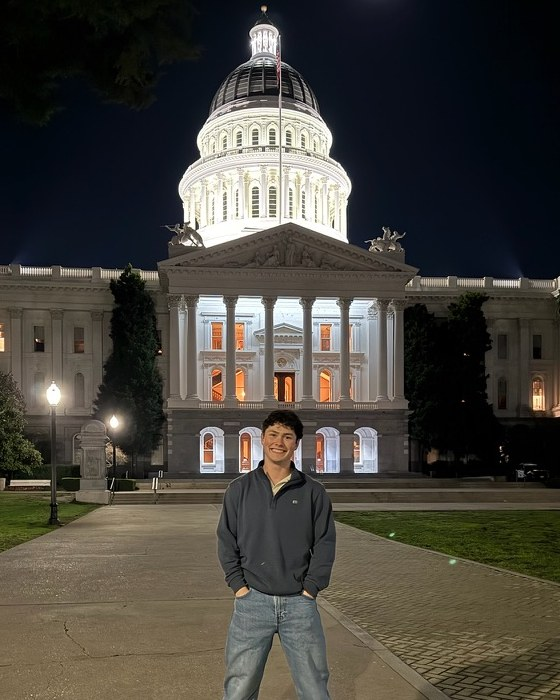
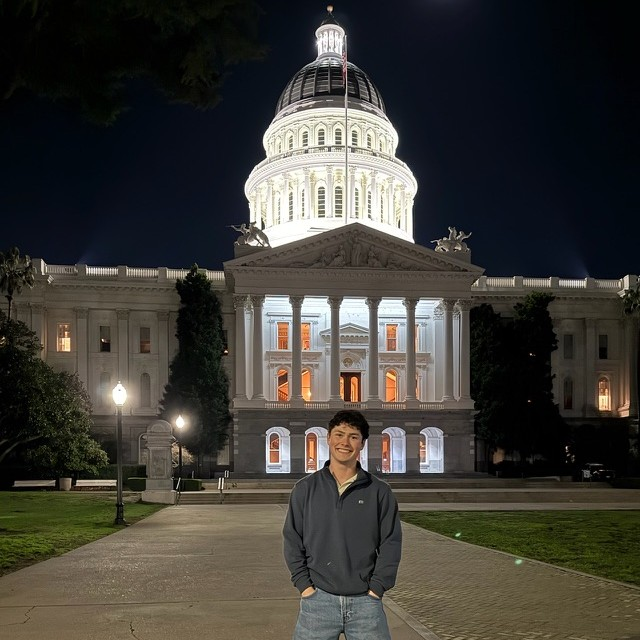
About page: full-width portrait photo with caption
Claude-Session: https://claude.ai/code/session_01RMTSKw5uyPK9YqixEShuWc

diff --git a/src/css/style.css b/src/css/style.css
@@ -191,13 +191,15 @@ a:focus-visible, button:focus-visible, input:focus-visible { outline: 3px solid 
 }
 
 /* ---------- About page intro ---------- */
-.about-intro { padding-top: 28px; }
-.about-card { display: flex; flex-wrap: wrap; gap: 28px; align-items: center; padding: 24px 0; border-top: 1px solid var(--rule); border-bottom: 1px solid var(--rule); }
-.about-photo { width: 240px; height: auto; aspect-ratio: 4 / 5; border-radius: 6px; object-fit: cover; border: 4px solid var(--gold); flex: none; }
-.about-who { display: flex; flex-direction: column; gap: 8px; min-width: 0; flex: 1 1 260px; }
-.about-who h2 { margin: 0; font-size: 30px; font-weight: 800; letter-spacing: -0.01em; }
+.about-figure { margin: 28px auto 0; }
+.about-figure img { width: 100%; aspect-ratio: 1 / 1; object-fit: cover; border-radius: 4px; }
+.about-figure figcaption { margin-top: 10px; font-size: 13px; color: var(--subtle); }
+.about-intro { padding-top: 20px; }
+.about-card { display: flex; flex-wrap: wrap; gap: 16px 24px; align-items: center; justify-content: space-between; padding-bottom: 20px; border-bottom: 1px solid var(--rule); }
+.about-who { display: flex; flex-direction: column; gap: 4px; min-width: 0; }
+.about-who h2 { margin: 0; font-size: 28px; font-weight: 800; letter-spacing: -0.01em; }
 .about-role { margin: 0; font-family: var(--serif); font-style: italic; font-size: 18px; color: var(--muted); }
-.about-links { list-style: none; margin: 6px 0 0; padding: 0; display: flex; flex-wrap: wrap; gap: 10px; }
-.about-btn { display: inline-flex; align-items: center; gap: 8px; min-height: 44px; padding: 0 16px; border: 1px solid var(--ink); border-radius: 4px; font-weight: 700; font-size: 15px; overflow-wrap: anywhere; }
+.about-links { list-style: none; margin: 0; padding: 0; display: flex; flex-wrap: wrap; gap: 10px; }
+.about-btn { display: inline-flex; align-items: center; gap: 8px; min-height: 44px; padding: 0 16px; border: 1px solid var(--ink); border-radius: 4px; font-weight: 700; font-size: 15px; }
 .about-btn:hover { background: var(--ink); color: #fff; }
 .about-btn svg { width: 18px; height: 18px; flex: none; }

diff --git a/src/about.md b/src/about.md
@@ -7,6 +7,7 @@ summary: Meet Wyatt Wens, founder and editor of Turnaround California, a small, 
 name: Wyatt Wens
 role: Founder & Editor
 photo: /images/uploads/about-photo.jpg
+photo_caption: Outside the California State Capitol in Sacramento.
 linkedin: https://www.linkedin.com/in/wyattwens
 email: wyattjwens@gmail.com
 ---
